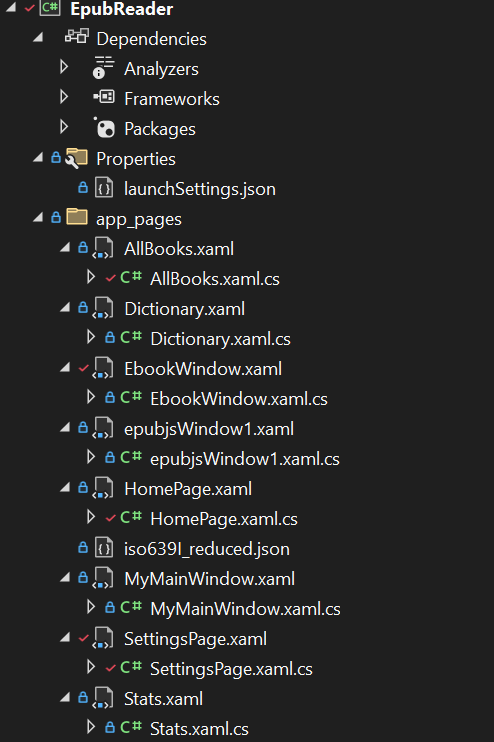
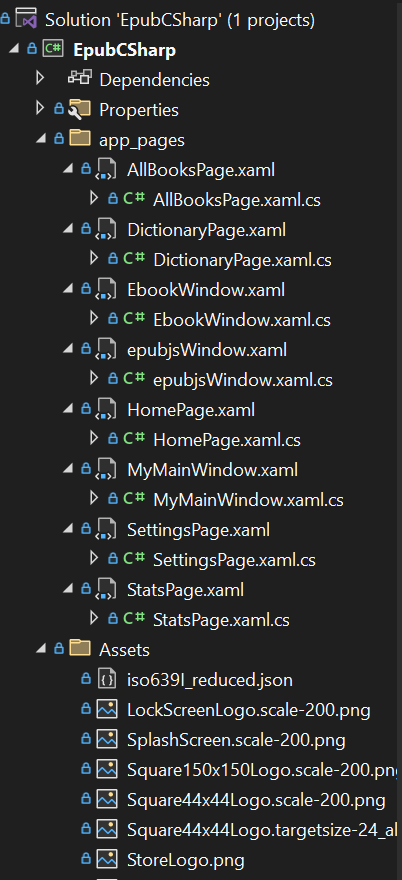
Update outdated tech documentations

Changed region(s): [[0.0, 0.0, 0.9851, 1.0], [0.5672, 0.0, 0.7761, 0.031], [0.1194, 0.496, 0.1493, 0.527]]

diff --git a/docs/Technical Documentation.md b/docs/Technical Documentation.md
@@ -6,17 +6,17 @@ The app was coded in **`C#`**. It uses [**WIN UI](https://learn.microsoft.com/en
 
 ### Structure
 
-![image.png](Technical%20Documentation%20data/image.png)
+![image.png](Technical%20Documentation%20b5af8669873848ee8557f61019959381/image.png)
 
-![image.png](Technical%20Documentation%20data/image%201.png)
+![image.png](Technical%20Documentation%20b5af8669873848ee8557f61019959381/image%201.png)
 
 - **app_pages/** = directory containing pages used for displaying **Home, All book, book viewer, …**
     - **Home = HomePage.xaml**
-    - **All books = AllBooks.xaml**
-    - **Stats = Stats.xaml**
+    - **All books = AllBooksPage.xaml**
+    - **Stats = StatsPage.xaml**
     - **Settings = SettingsPage.xaml**
     - **Custom viewer = EbookWindow.xaml**
-    - **epubjs viewer = epubjsWindow1.xaml**
+    - **epubjs viewer = epubjsWindow.xaml**
 - **code/**
     - **app_controls.cs** = there are some methods used by multiple pages: updating css, injecting JS into html files, …
     - **epub-handler.cs**  = handles operations with epub file: extracting epub archive, extracting metadata from its files and than storing the data in the app’s own storage.
@@ -27,8 +27,9 @@ The app was coded in **`C#`**. It uses [**WIN UI](https://learn.microsoft.com/en
     - **epubjs-reader/** = contains files used by **epubjs** translation service (https://github.com/futurepress/epub.js)
     - **ebook.js** = a back-up script for handling WebView2, is not used.
     - **script.js** = a back-up script for handling WebView2, is not used.
+- **docs/** = contains the app’s documentation
+- **Assets/** = contains the app’s icon and iso639I.json file used for selecting language.
 - **App.xaml** = is the initial window of the app which is started as  the first one.
-- **doc.xml** = exported xml comment from entire solution
 - **README.md** = readme file used in gitlab/github.
 
 For more informations about used classes and methods please view their comments.
